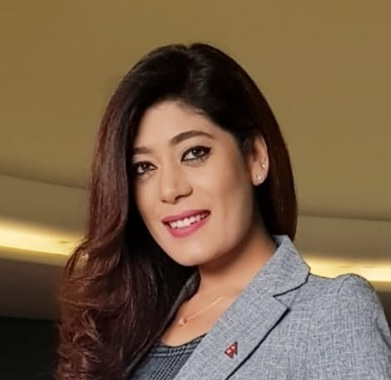
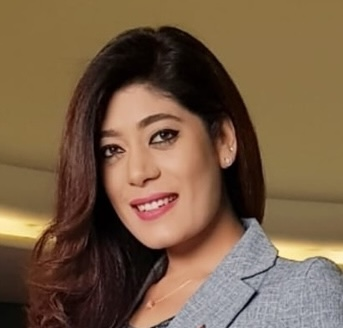
partner updated

diff --git a/src/lib/event-data.ts b/src/lib/event-data.ts
@@ -6,6 +6,7 @@ import h2oLogo from "@/assets/h2o-logo.png";
 import realLogo from "@/assets/real-logo.png";
 import wowLogo from "@/assets/wow-logo.png";
 import necassLogo from "@/assets/necass-logo.png";
+import novalaLogo from "@/assets/novala-logo.svg";
 
 import anuradhaImg from "@/assets/guests/anuradha-koirala.jpg";
 import manishaImg from "@/assets/guests/manisha-koirala.jpg";
@@ -141,6 +142,10 @@ export const partners: LinkItem[] = [
     label: "ISS Pvt. Ltd.",
     logo: issLogo,
   },
+  {
+    label: "Novala Biotech",
+    logo: novalaLogo,
+  },
   // { label: "The Kathmandu Post" },
   // {
   //   label: "Dabur Real",
@@ -150,10 +155,10 @@ export const partners: LinkItem[] = [
   //   label: "Pathao Nepal",
   //   logo: pathaoLogo,
   // },
-  // {
-  //   label: "World of Women Magazine",
-  //   logo: wowLogo,
-  // },
+  {
+    label: "World of Women Magazine",
+    logo: wowLogo,
+  },
   // {
   //   label: "H2O Drinking Water",
   //   logo: h2oLogo,
